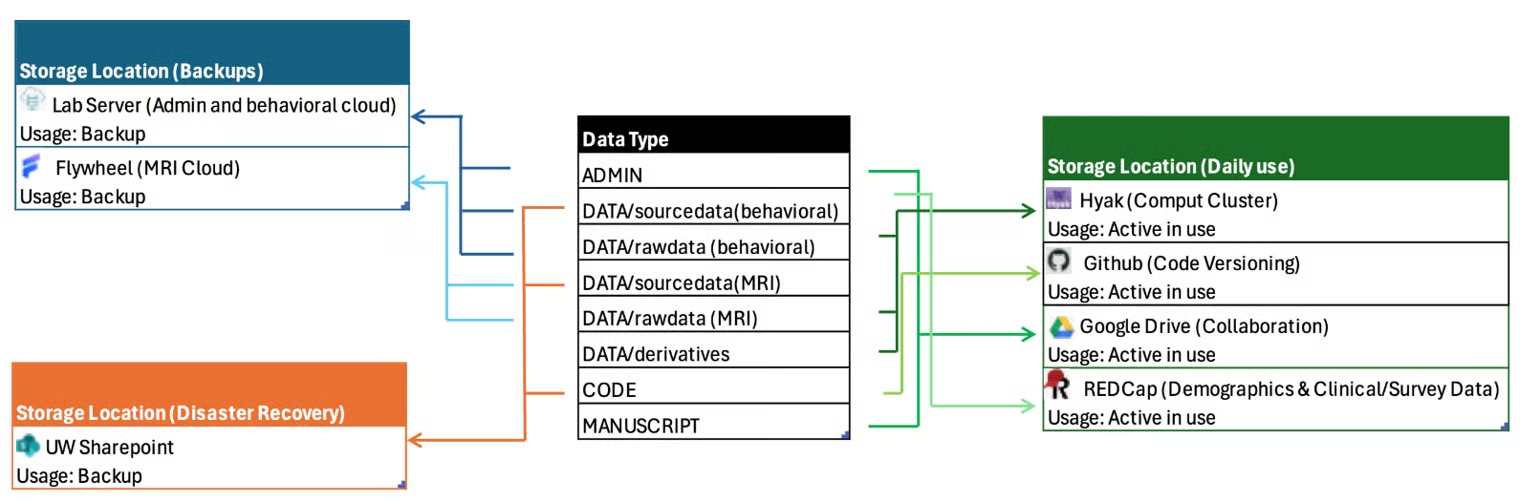
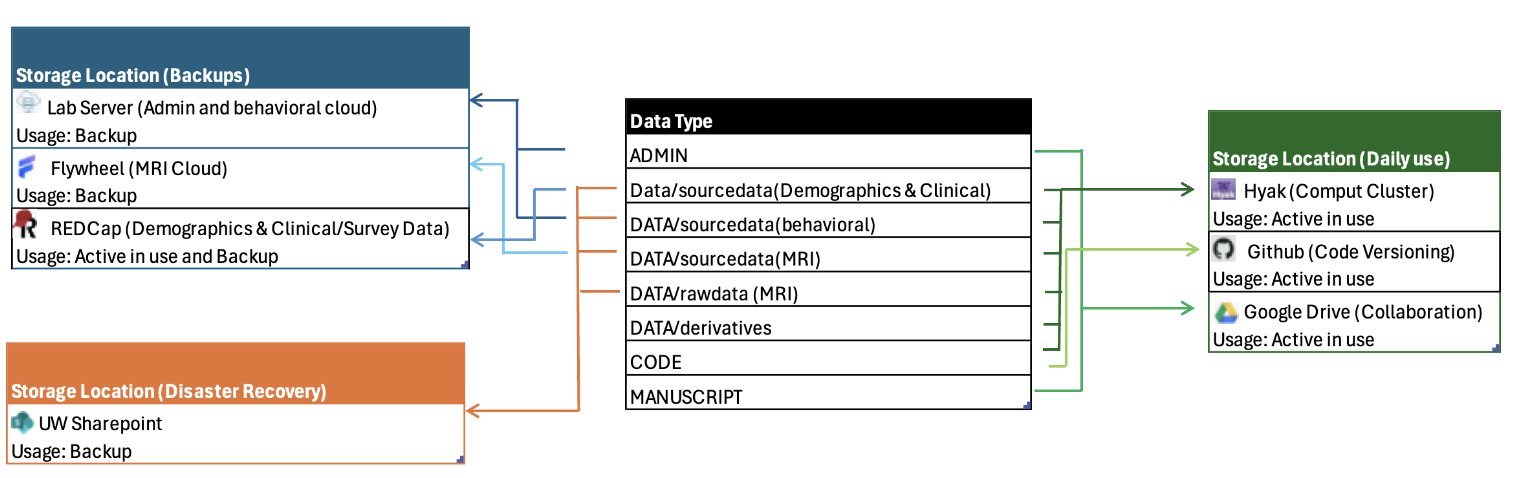
GITBOOK-17: No subject

Changed region(s): [[0.0, 0.0293, 1.0, 0.9958]]

diff --git a/data-management/data-management-workflow/the-storage-ecosystem.md b/data-management/data-management-workflow/the-storage-ecosystem.md
@@ -11,7 +11,7 @@ Rule of Thumb:
 * Storage Locations are for safe-keeping and "Sources of Truth"
 * Active Locations are for computing, coding, and writing.
 
-<figure><img src="../../.gitbook/assets/image (2).png" alt=""><figcaption></figcaption></figure>
+<figure><img src="../../.gitbook/assets/image (6).png" alt=""><figcaption></figcaption></figure>
 
 ***
 
@@ -27,15 +27,12 @@ _These locations are primarily for data preservation. Treat files here as the "M
     ```
     Project_Name/
     ├── ADMIN/
-    ├── DATA/
-    │   ├── sourcedata/       # Behavioral Logs Only
-    │   └── rawdata/          # Behavioral TSVs Only
-    └── MANUSCRIPT/           # Archive of final papers
+    └── DATA/
+        └── sourcedata/       # Demographics, Clinical Accessments and Task Behavioral 
     ```
 * Note: We do not store raw MRI data here.
 * Sync Routine:&#x20;
   * Behavioral data is uploaded here immediately (within 24 hours after gathered by experimenter).&#x20;
-  * Final analysis results are pulled back here for safekeeping (timeline?).
 
 ### **2. Flywheel (MRI Master Database)**
 
@@ -45,8 +42,8 @@ _These locations are primarily for data preservation. Treat files here as the "M
     ```
     Project_Name/
     └── DATA/
-        ├── sourcedata/       # Raw DICOMs from scanner
-        └── rawdata/          # BIDS-converted NIfTI files
+        └── sourcedata/       # Raw DICOMs from scanner
+      
     ```
 * Key Feature: BIDS curation and "Gears" (containers) for initial QC/preprocessing.
 * Sync Routine: MRI data is uploaded here immediately (within 24 hours after gathered by CNH).&#x20;
@@ -60,11 +57,11 @@ _These locations are primarily for data preservation. Treat files here as the "M
     ```
     Project_Name/
     └── DATA/
-        ├── sourcedata/       # The Safety Net (DICOMs & Behavioral Logs)
+        ├── sourcedata/       # The Safety Net (DICOMs Demographics, Clinical Accessments and Task Behavioral)
         └── rawdata/          # The Standard (BIDS NIfTIs & TSVs)
-        └── derivatives/  #Final results synced back from Hyak
+        └── derivatives/  # Final results synced back from Hyak
     ```
-* Sync Routine: Once a month (eg. last work day of each month by ?)
+* Sync Routine: every half a year
 
 ***
 
@@ -83,6 +80,8 @@ _These locations are temporary workspaces. Data here is transient, changing, or 
     ```
     Project_Name/
     ├── DATA/
+    │   ├── sourcedata/       # source to be process: DICOMs, Demographics, Clinical Accessments and Task Behavioral
+    │   ├── rawdata/          # The Standard (BIDS NIfTIs & TSVs, standard and safe to share version)
     │   └── derivatives/      # Output of pipelines (preproc, stats)
     └── CODE/                 # Analysis scripts (Pulled from GitHub)
     ```
